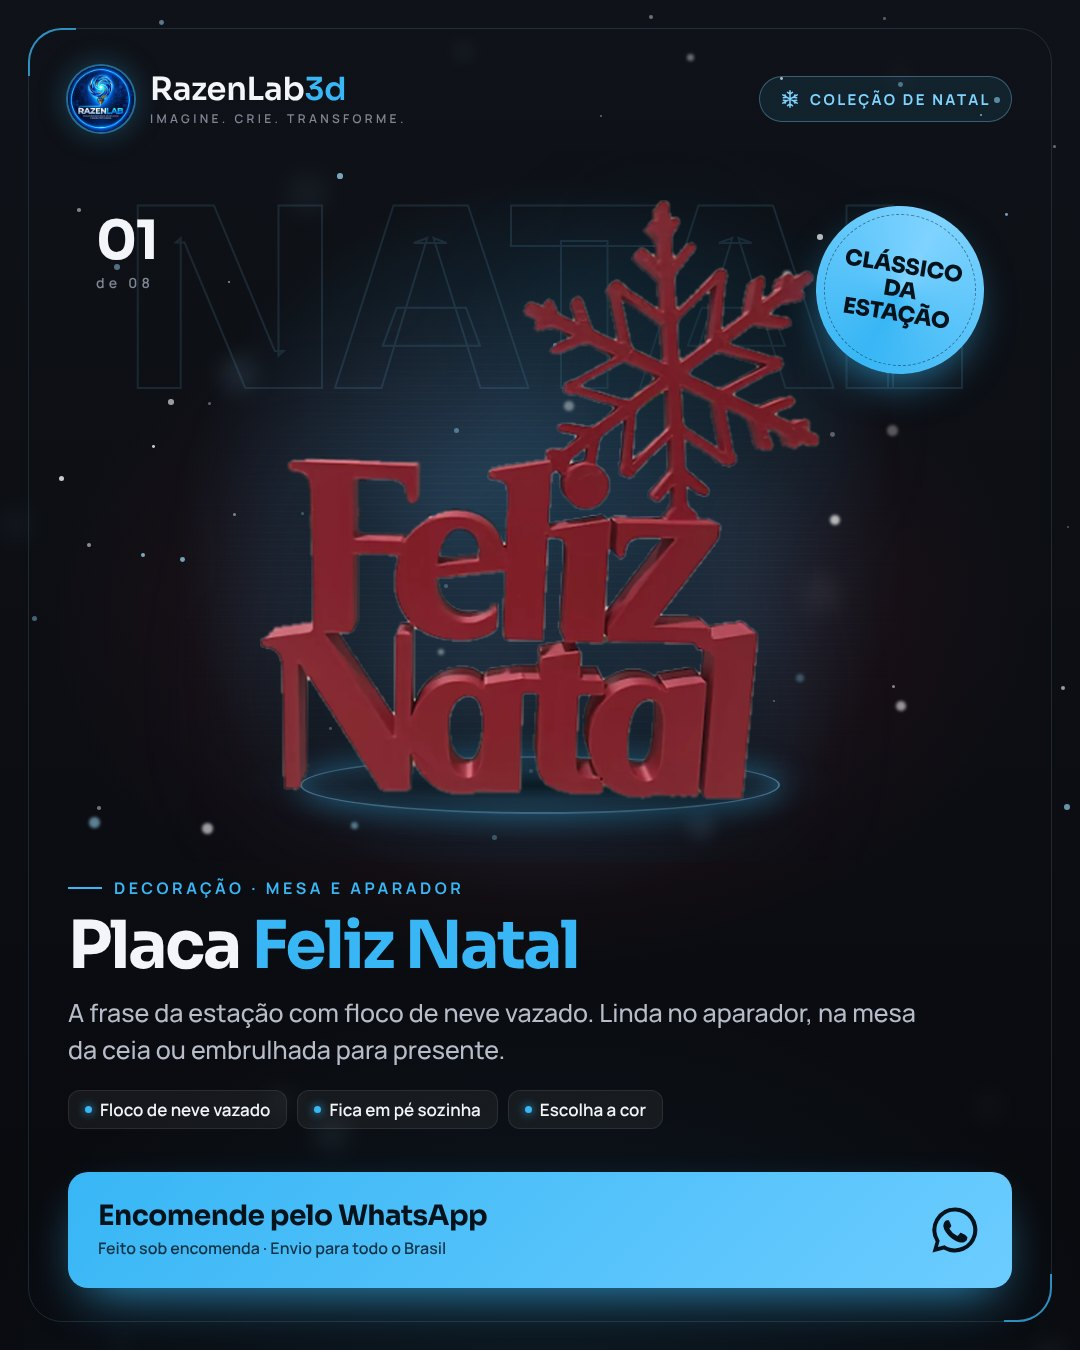
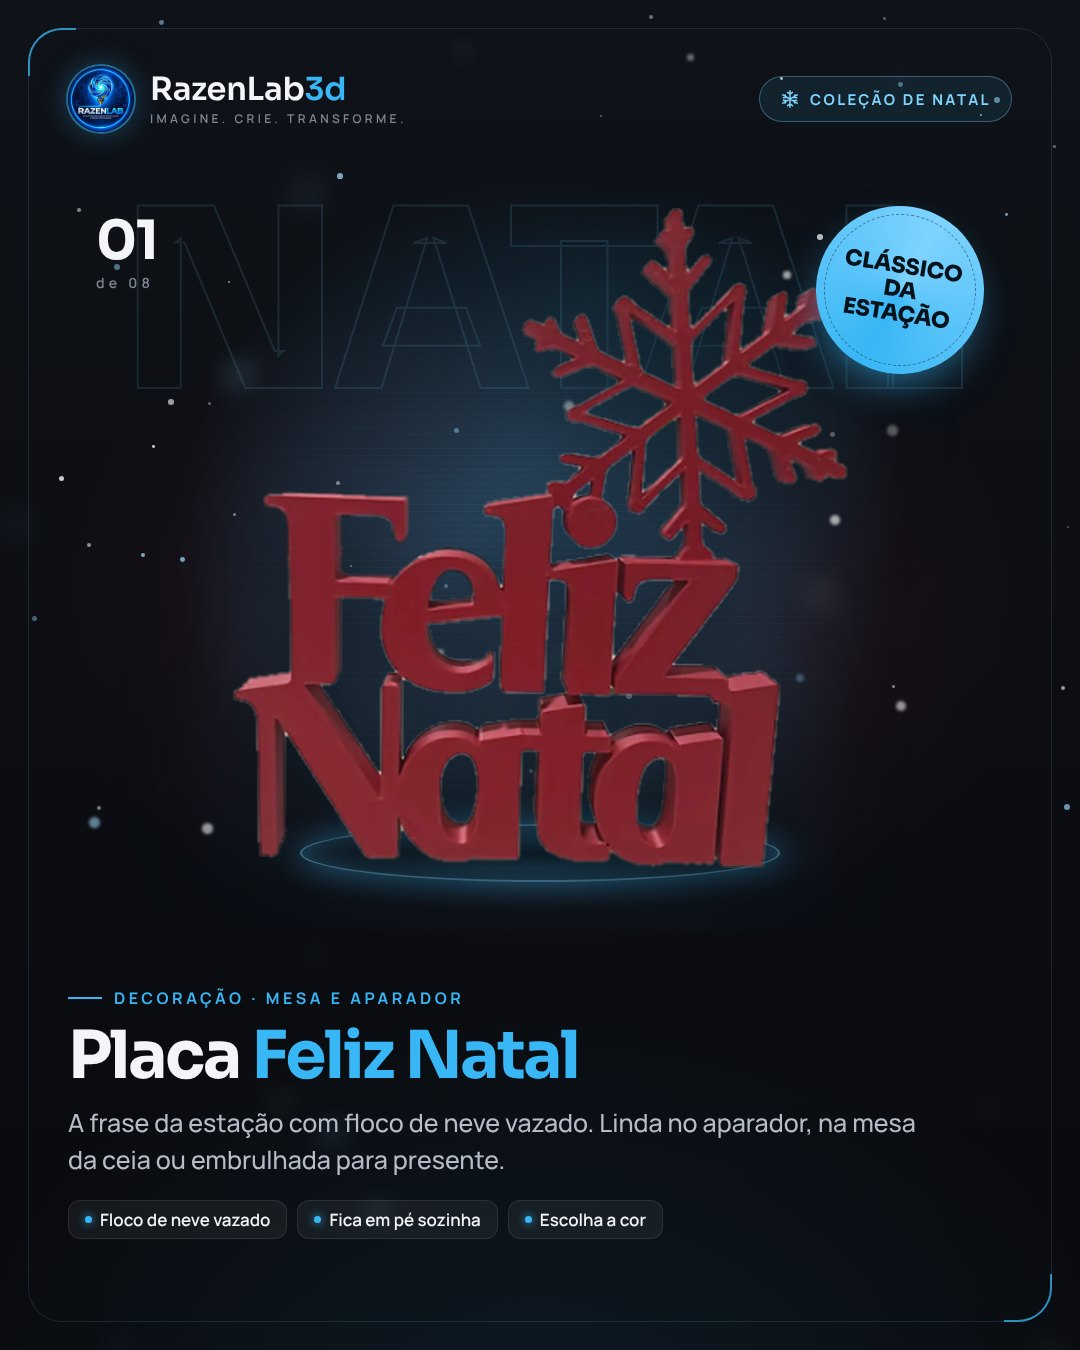
Imagem do produto inteira, 3 capas prontas e anúncios sem botão
- Site: janela do produto mostra a foto inteira (sem cortar)
- Painel: capas prontas para escolher com um toque (Natal, Pódios, Impressão)
- assets/natal: anúncios e catálogo sem o botão do WhatsApp

Claude-Session: https://claude.ai/code/session_01M5upDJHSb2zLcrCrizxLQ5

Changed region(s): [[0.0306, 0.1556, 0.9472, 0.9956]]

diff --git a/painel.html b/painel.html
@@ -344,6 +344,12 @@ input[type=checkbox],input[type=radio]{width:18px;height:18px;min-height:0;paddi
 .col-cfg[open] summary{margin-bottom:14px}
 .col-acoes{position:sticky;bottom:-20px;margin:16px -20px -20px;padding:14px 20px;background:var(--surface);border-top:1px solid var(--rule);z-index:2}
 @media (max-width:560px){.col-peca{grid-template-columns:64px 1fr;gap:10px;padding:12px}.col-peca>img,.col-peca .sem-foto{width:64px;height:64px}.col-linha label{width:100%!important}.col-acoes .tb.perigo{margin-left:0}}
+.capas-prontas{display:grid;grid-template-columns:repeat(auto-fill,minmax(150px,1fr));gap:10px}
+.capa-pronta{padding:0;border:2px solid var(--rule);border-radius:10px;overflow:hidden;background:var(--ground);cursor:pointer;text-align:left;color:var(--text)}
+.capa-pronta img{width:100%;aspect-ratio:16/9;object-fit:cover;display:block}
+.capa-pronta span{display:block;padding:6px 8px;font-size:12px}
+.capa-pronta.on{border-color:var(--accent);cursor:default}
+.capa-pronta:not(.on):hover{border-color:color-mix(in srgb,var(--accent) 60%,transparent)}
 .foto .capa{position:absolute;left:4px;bottom:4px;top:auto;right:auto;width:auto;height:auto;font-size:10px;line-height:1;padding:4px 6px;border-radius:6px;border:0;background:rgba(0,0,0,.65);color:#fff;cursor:pointer;text-transform:uppercase;letter-spacing:.06em}
 .foto .capa.on{background:var(--accent);color:var(--accent-ink);cursor:default}
 .foto-site{display:grid;grid-template-columns:160px 1fr;gap:16px;align-items:center;padding:12px 0;border-top:1px solid var(--rule)}
@@ -2664,6 +2670,7 @@ const FOTOS_SITE = {
   heroFoto:{ nome:"Foto de capa", dica:"A foto grande do topo do site. Use uma foto deitada, de pelo menos 1600 px de largura, com as peças mais à direita (o texto fica à esquerda).", padrao:"assets/hero.webp", max:2200, q:.82 },
   logoFoto:{ nome:"Logo", dica:"Aparece redonda no topo e no rodapé. Use uma imagem quadrada.", padrao:"assets/logo-mark.jpg", max:400, q:.9 }
 };
+const CAPAS_PRONTAS = [["assets/hero.webp","Peças variadas"],["assets/capas/capa-natal.jpg","Natal"],["assets/capas/capa-podios.jpg","Pódios"],["assets/capas/capa-impressao.jpg","Impressão ao vivo"]];
 let fotoSiteAlvo = null;
 function blocoFotosSite(){
   const n = dados.negocio;
@@ -2675,6 +2682,9 @@ function blocoFotosSite(){
         <div><b>${f.nome}</b>${n[k] ? "" : ` <span class="faint p13">(original)</span>`}<p class="muted p13" style="margin:4px 0 10px">${f.dica}</p>
           <div class="row"><button class="tb" data-acao="site-foto" data-qual="${k}">Trocar foto</button>${n[k] ? `<button class="lk" data-acao="site-foto-padrao" data-qual="${k}">Voltar à original</button>` : ""}</div></div>
       </div>`).join("")}
+    <div class="lbl" style="margin:14px 0 8px">Capas prontas · toque para usar no site</div>
+    <div class="capas-prontas">${CAPAS_PRONTAS.map(([f,r]) => { const url = new URL(f, location.href).href, atual = (n.heroFoto || new URL("assets/hero.webp", location.href).href) === url;
+      return `<button class="capa-pronta ${atual?"on":""}" data-acao="capa-pronta" data-url="${esc(url)}" ${atual?"disabled":""}><img src="${esc(f)}" alt=""><span>${r}${atual?" · em uso":""}</span></button>`; }).join("")}</div>
     <p class="dica">As fotos das peças do catálogo ficam em cada trabalho, logo abaixo.</p>
   </div>`;
 }
@@ -2735,6 +2745,12 @@ document.addEventListener("click", e => {
   if(b.dataset.acao === "site-foto"){ fotoSiteAlvo = b.dataset.qual; document.getElementById("arq-site").click(); }
   else if(b.dataset.acao === "site-foto-padrao") fotoSitePadrao(b.dataset.qual);
   else if(b.dataset.acao === "importar-exemplos") importarExemplos(b);
+  else if(b.dataset.acao === "capa-pronta"){
+    const url = b.dataset.url, padrao = new URL("assets/hero.webp", location.href).href, antiga = dados.negocio.heroFoto;
+    dados.negocio.heroFoto = url === padrao ? "" : url;
+    gravarConfig().then(() => { const nome = antiga && caminhoVitrine(antiga); if(nome) sb.storage.from("vitrine").remove([nome]); render(); toast("Capa trocada. O site já mostra a nova."); })
+      .catch(err => { dados.negocio.heroFoto = antiga; falhou(err, "trocar a capa"); });
+  }
 });
 document.addEventListener("change", e => {
   if(e.target.id === "arq-site" && e.target.files[0]){ const f = e.target.files[0]; e.target.value = ""; if(bannerAlvo){ bannerAlvo = false; trocarBanner(f); } else trocarFotoSite(f); }

diff --git a/index.html b/index.html
@@ -288,8 +288,10 @@ footer{border-top:1px solid var(--line);padding:40px 0 calc(28px + env(safe-area
 @keyframes fade{from{opacity:0}}
 .md{position:relative;width:min(960px,100%);max-height:calc(100svh - 32px);overflow:auto;display:grid;grid-template-columns:1.05fr 1fr;background:var(--card);border:1px solid var(--line-2);border-radius:var(--r-lg);animation:sobe .3s cubic-bezier(.2,.7,.2,1)}
 @media (max-width:760px){.md{grid-template-columns:1fr}}
-.md .gal{background:#2a2d33;display:grid;align-content:start}
-.md .gal .main img{width:100%;height:auto;aspect-ratio:1/1;object-fit:cover}
+.md .gal{background:#0d0f13;display:grid;align-content:center}
+.md .gal .main{display:grid;place-items:center}
+.md .gal .main img{width:100%;height:auto;max-height:calc(100svh - 140px);object-fit:contain}
+@media (min-width:761px){.md{align-items:stretch}.md .gal{position:sticky;top:0;align-self:start}}
 .md .thumbs{display:flex;gap:8px;padding:10px}
 .md .thumbs button{width:64px;height:64px;padding:0;border-radius:10px;overflow:hidden;border:2px solid transparent;cursor:pointer;background:none}
 .md .thumbs button[aria-pressed="true"]{border-color:var(--accent)}
